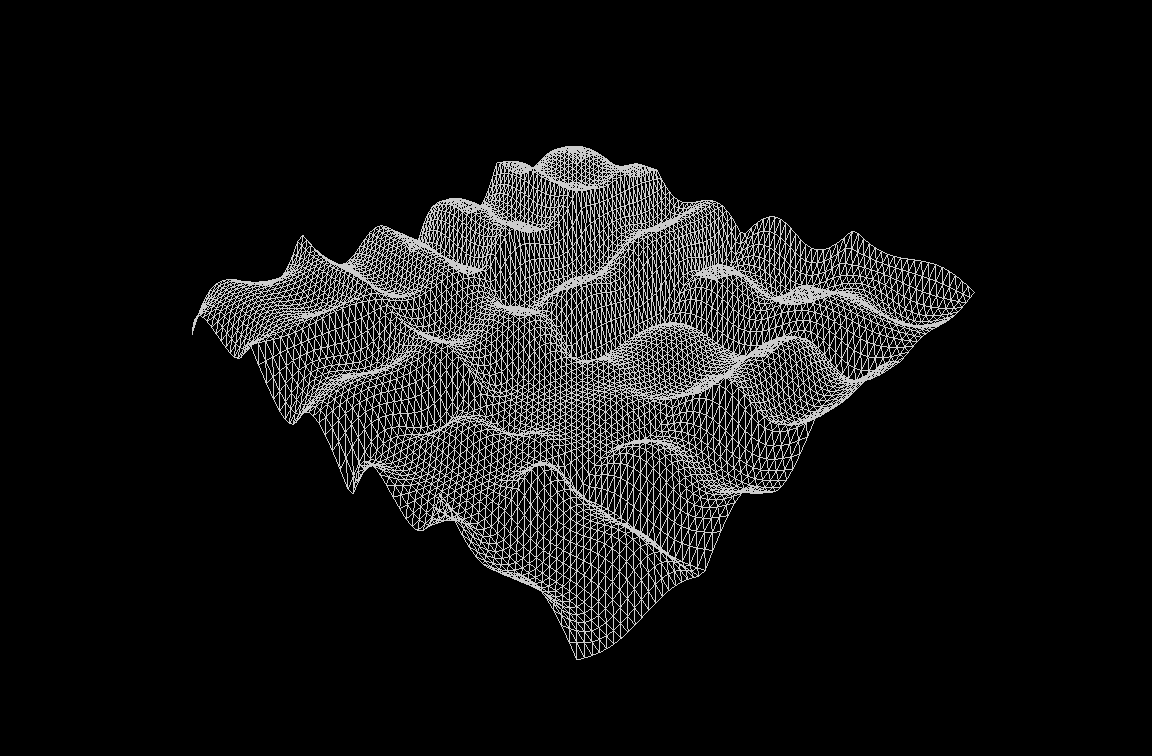
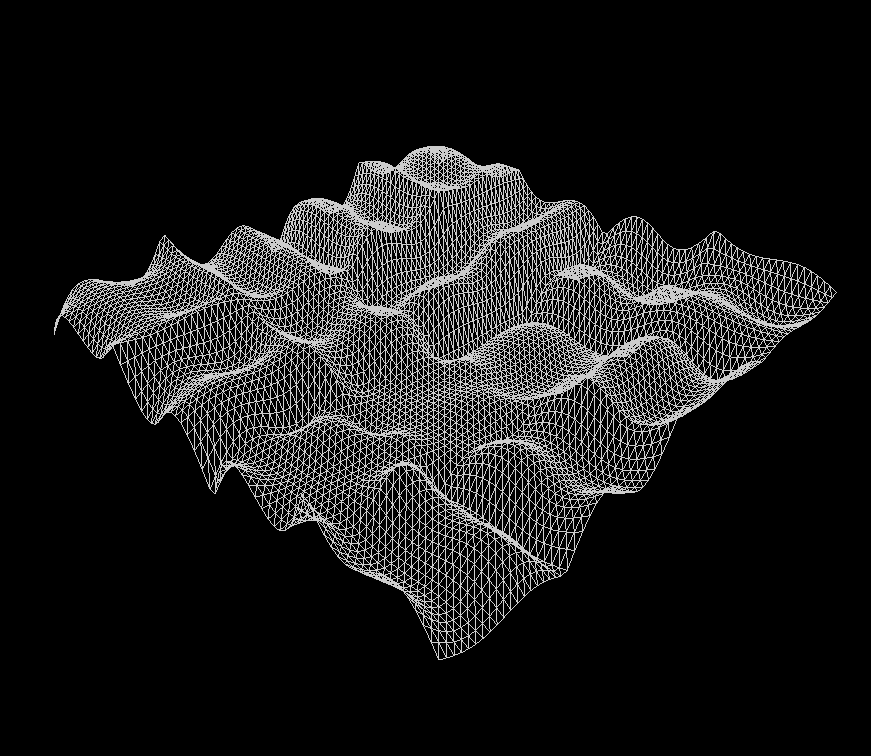
perlin versions of easing examples added

Changed region(s): [[0.062, 0.1825, 0.961, 0.8823]]

diff --git a/lab07/terraingenerator.cpp b/lab07/terraingenerator.cpp
@@ -23,8 +23,8 @@ float interpolate(float A, float B, float x) {
     // Task X: implement your eased interpolation function below!
 
     const float pi = 3.14159265359;
-    auto ease = [](float x) -> float { return ((x * (x * 6.0 - 15.0) + 10.0) * x * x * x);};
-    //auto ease = [](float x) -> float { return x * x * (3 - 2 * x);};
+    //auto ease = [](float x) -> float { return ((x * (x * 6.0 - 15.0) + 10.0) * x * x * x);};
+    auto ease = [](float x) -> float { return x * x * (3 - 2 * x);};
     //auto ease = [](float x) -> float { return x;};
     //auto ease = [pi](float x) -> float {return sin(2 * pi * x) / 2.5 + x;};
 
@@ -79,8 +79,8 @@ QVector3D TerrainGenerator::getPosition(int row, int col) {
     float Pos16 = (computePerlin(x * 16, y * 16) / 16);
     float Pos32 = (computePerlin(x * 32, y * 32) / 32);
 
-    z = Pos2 + Pos4 + Pos8 + Pos16 + Pos32 + Pos8;
-    //z = Pos4;
+    //z = Pos2 + Pos4 + Pos8 + Pos16 + Pos32 + Pos8;
+    z = Pos4;
     //z = Pos2 + Pos4 + (Pos8 + Pos16 + Pos32)* ((Pos2 + 1) / 4 + (Pos4 + 1) / 4);
 
     return QVector3D(x,y,z);
@@ -134,7 +134,7 @@ QVector3D TerrainGenerator::getColor(QVector3D normal, QVector3D position) {
 TerrainGenerator::TerrainGenerator()
 {
     m_resolution = 75;
-    m_wireshade = false;
+    m_wireshade = true;
     m_randVecLookup.reserve((m_resolution + 2) * (m_resolution + 2));
 
     std::srand(1);
